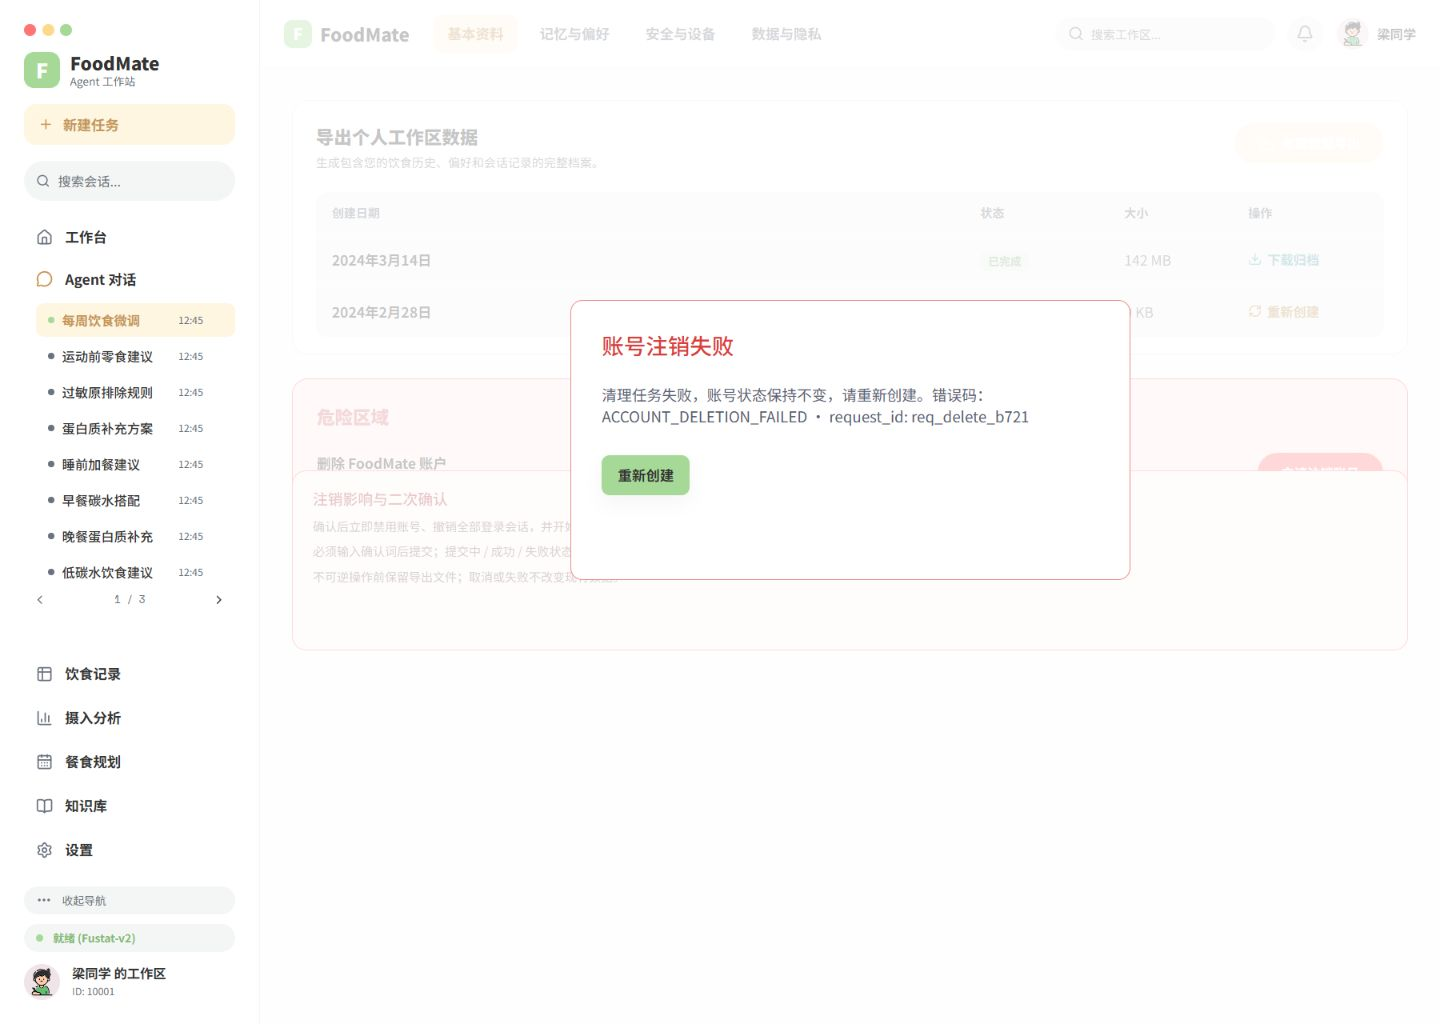
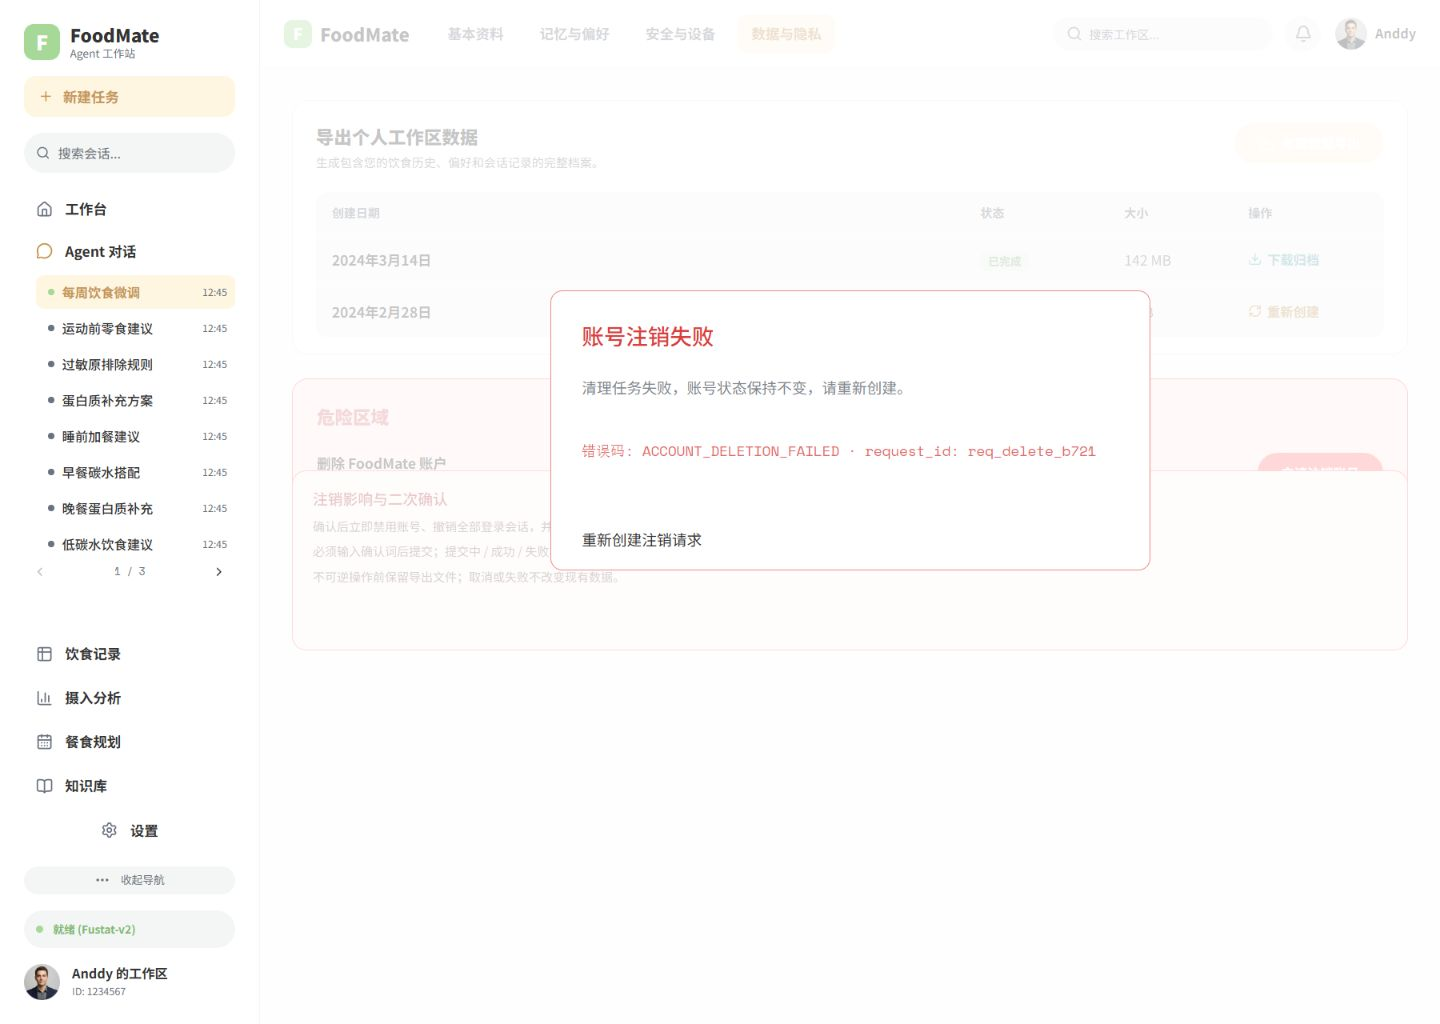
fix(个人中心): 对齐账号注销失败状态

diff --git a/foodmate-ui/src/pages/ProfilePage/ProfilePage.module.css b/foodmate-ui/src/pages/ProfilePage/ProfilePage.module.css
@@ -1626,6 +1626,11 @@
   background: rgb(0 0 0 / 34%);
 }
 
+.fixtureOverlayDeletionFailed {
+  inset: 0 0 0 260px;
+  background: rgb(255 255 255 / 72%);
+}
+
 .fixtureModal {
   position: absolute;
   top: 300px;
@@ -1740,6 +1745,21 @@
   border-radius: 18px;
   background: #f4f6f5;
   box-shadow: 0 8px 22px rgb(26 33 46 / 12%);
+  overflow: hidden;
+  transform: none;
+}
+
+.fixtureModalDeletionFailed {
+  top: 290px;
+  left: 290px;
+  width: 600px;
+  height: 280px;
+  min-height: 0;
+  padding: 0;
+  border-color: #ef8b86;
+  border-radius: 12px;
+  background: #fff;
+  box-shadow: none;
   overflow: hidden;
   transform: none;
 }
@@ -2323,6 +2343,70 @@
   height: 18px;
 }
 
+.fixtureDeletionFailedTitle,
+.fixtureDeletionFailedDetail,
+.fixtureDeletionFailedStatus {
+  position: absolute;
+  left: 31px;
+  width: 520px;
+  margin: 0;
+  font-family: var(--font-ui);
+  font-weight: 400;
+  text-align: left;
+}
+
+.fixtureModal h2.fixtureDeletionFailedTitle {
+  top: 31px;
+  color: #dc3e3e;
+  font-size: 22px;
+  line-height: 28px;
+}
+
+.fixtureModal p.fixtureDeletionFailedDetail {
+  top: 85px;
+  margin: 0;
+  color: rgb(107 114 128 / 86%);
+  font-size: 15px;
+  line-height: 22px;
+}
+
+.fixtureModal p.fixtureDeletionFailedStatus {
+  top: 149px;
+  margin: 0;
+  color: rgb(220 62 62 / 78%);
+  font-family: var(--font-mono);
+  font-size: 14px;
+  line-height: 22px;
+}
+
+.fixtureDeletionFailedAction {
+  position: absolute;
+  top: 204px;
+  left: 31px;
+  width: auto;
+  height: 32px;
+  min-height: 32px;
+  margin-top: 0;
+  padding: 0;
+  border: 0;
+  border-radius: 0;
+  background: transparent;
+  color: #333;
+  font-family: var(--font-ui);
+  font-size: 15px;
+  font-weight: 400;
+  line-height: 22px;
+  box-shadow: none;
+}
+
+.fixtureDeletionFailedAction:hover,
+.fixtureDeletionFailedAction:focus-visible {
+  background: transparent;
+  color: #dc3e3e;
+  text-decoration: underline;
+  text-underline-offset: 3px;
+}
+
 .fixtureLogoutActions {
   position: absolute;
   top: 273px;
@@ -2521,6 +2605,16 @@
     height: 250px;
     transform: translateY(-50%);
   }
+  .fixtureOverlayDeletionFailed {
+    inset: 0;
+  }
+  .fixtureModalDeletionFailed {
+    top: 50%;
+    left: 16px;
+    width: calc(100% - 32px);
+    height: 280px;
+    transform: translateY(-50%);
+  }
   .fixtureLogoutEyebrow,
   .fixtureLogoutTitle,
   .fixtureLogoutDetail,
@@ -2641,6 +2735,19 @@
   .fixtureDeletionSuccessClose {
     right: 13px;
     left: auto;
+  }
+  .fixtureDeletionFailedTitle,
+  .fixtureDeletionFailedDetail,
+  .fixtureDeletionFailedStatus {
+    left: 24px;
+    width: calc(100% - 48px);
+  }
+  .fixtureDeletionFailedStatus {
+    line-height: 20px;
+  }
+  .fixtureDeletionFailedAction {
+    top: 204px;
+    left: 24px;
   }
   .fixturePanel {
     inset: 0;

diff --git a/foodmate-ui/src/pages/ProfilePage/ProfilePage.tsx b/foodmate-ui/src/pages/ProfilePage/ProfilePage.tsx
@@ -361,6 +361,7 @@ function ProfileFixtureOverlay({ state, onDismiss }: { state: ProfileFixtureStat
   const isExportExpired = state === 'privacy-export-expired';
   const isDeletionSubmitting = state === 'privacy-deletion-submitting';
   const isDeletionSuccess = state === 'privacy-deletion-success';
+  const isDeletionFailed = state === 'privacy-deletion-failed';
   return (
     <div
       className={cn(
@@ -372,6 +373,7 @@ function ProfileFixtureOverlay({ state, onDismiss }: { state: ProfileFixtureStat
         isExportRunning ? styles.fixtureOverlayExportRunning : undefined,
         isExportExpired ? styles.fixtureOverlayExportExpired : undefined,
         isDeletionSubmitting ? styles.fixtureOverlayDeletionSubmitting : undefined,
+        isDeletionFailed ? styles.fixtureOverlayDeletionFailed : undefined,
       )}
       role="presentation"
     >
@@ -386,6 +388,7 @@ function ProfileFixtureOverlay({ state, onDismiss }: { state: ProfileFixtureStat
           isExportExpired ? styles.fixtureModalExportExpired : undefined,
           isDeletionSubmitting ? styles.fixtureModalDeletionSubmitting : undefined,
           isDeletionSuccess ? styles.fixtureModalDeletionSuccess : undefined,
+          isDeletionFailed ? styles.fixtureModalDeletionFailed : undefined,
         )}
         role="alert"
         aria-live="polite"
@@ -458,6 +461,17 @@ function ProfileFixtureOverlay({ state, onDismiss }: { state: ProfileFixtureStat
               <X aria-hidden="true" />
             </Button>
           </>
+        ) : isDeletionFailed ? (
+          <>
+            <h2 className={styles.fixtureDeletionFailedTitle}>{title}</h2>
+            <p className={styles.fixtureDeletionFailedDetail}>清理任务失败，账号状态保持不变，请重新创建。</p>
+            <p className={styles.fixtureDeletionFailedStatus}>
+              错误码: ACCOUNT_DELETION_FAILED · request_id: req_delete_b721
+            </p>
+            <Button className={styles.fixtureDeletionFailedAction} variant="ghost" onClick={onDismiss}>
+              重新创建注销请求
+            </Button>
+          </>
         ) : isDeleteConfirmation ? (
           <>
             <p className={styles.fixtureDeleteEyebrow}>DANGER ZONE · CONFIRM</p>
@@ -515,9 +529,7 @@ function ProfileFixtureOverlay({ state, onDismiss }: { state: ProfileFixtureStat
             </Button>
           </div>
         ) : null}
-        {state === 'security-password-failed' ||
-        state === 'privacy-deletion-failed' ||
-        (state === 'privacy-export-expired' && !isExportExpired) ? (
+        {state === 'security-password-failed' || (state === 'privacy-export-expired' && !isExportExpired) ? (
           <Button type="button" onClick={onDismiss}>
             重新创建
           </Button>

diff --git a/foodmate-ui/src/pages/ProfilePage/ProfilePage.test.tsx b/foodmate-ui/src/pages/ProfilePage/ProfilePage.test.tsx
@@ -192,6 +192,21 @@ describe('ProfilePage', () => {
     expect(screen.queryByRole('heading', { name: '账号已注销' })).not.toBeInTheDocument();
   });
 
+  it('renders and dismisses the Figma deletion failure fixture', async () => {
+    const user = userEvent.setup();
+    renderPage('/profile?state=privacy-deletion-failed');
+
+    expect(screen.getByRole('heading', { name: '账号注销失败' })).toBeInTheDocument();
+    expect(screen.getByText('清理任务失败，账号状态保持不变，请重新创建。')).toBeInTheDocument();
+    expect(screen.getByText('错误码: ACCOUNT_DELETION_FAILED · request_id: req_delete_b721')).toBeInTheDocument();
+    expect(screen.getByRole('button', { name: '重新创建注销请求' })).toBeInTheDocument();
+    expect(screen.queryByRole('progressbar')).not.toBeInTheDocument();
+
+    await user.click(screen.getByRole('button', { name: '重新创建注销请求' }));
+
+    expect(screen.queryByRole('heading', { name: '账号注销失败' })).not.toBeInTheDocument();
+  });
+
   it('edits profile fields and manages allergens before saving', async () => {
     const user = userEvent.setup();
     renderPage('/profile');

diff --git a/docxs/功能实现说明/前端已完成实现清单.md b/docxs/功能实现说明/前端已完成实现清单.md
@@ -872,3 +872,11 @@
 - [x] 新增测试确保错误态不渲染“自定义范围”和“全部餐次”，并修正三态测试的独立卸载边界；`typecheck` 和 `AnalysisPage` 定向测试通过。
 - [x] 当前 Figma/浏览器证据与 diff JSON 已登记；自动差异为 `12.0143% / MAE 1.5468 / RMSE 12.2186`，继续保留 `DIFF_REVIEW`。
 - [ ] 本项不关闭 105 张画板全量像素 PASS、shadcn 全量迁移或 iconfont 实体资源登记；左上角窗口装饰点仅核查前端为 `0`，业务状态圆点保留。
+
+## 74. 2026-08-23 个人中心账号注销成功与失败状态收口
+
+- [x] Figma `795:499` 已对应 `/profile?state=privacy-deletion-success`；成功卡桌面 `560×250`、移动 `358.4×250`，包含绿色成功语义、request ID 和关闭动作，无进度条；diff `42.1501% / MAE 3.2028 / RMSE 13.9386`。
+- [x] Figma `795:642` 已对应 `/profile?state=privacy-deletion-failed`；失败卡桌面 `600×280`、移动 `358.4×280`，包含错误码、request ID 和“重新创建注销请求”动作，无进度条；diff `34.1727% / MAE 2.6096 / RMSE 14.4439`。
+- [x] 两个状态已完成桌面/移动浏览器截图、RGBA 归一化和 JSON 登记；`ProfilePage.test.tsx` 定向测试 `20/20`，`typecheck`、Prettier 和 `git diff --check` 通过。
+- [x] 当前前端实时检查没有左上角红黄绿窗口装饰点，业务状态圆点保留，Figma 设计稿未修改。
+- [ ] 两个画板仍为 `DIFF_REVIEW`，不代表像素级 `PASS`；105 张汇总继续为 `105 DIFF_REVIEW / 0 PASS / 0 UNMAPPED / 0 SIZE_MISMATCH`，iconfont 实体包仍为 `BLOCKED`，shadcn 全量视觉迁移仍未完成。
